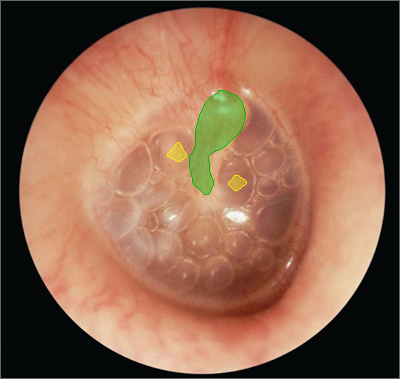
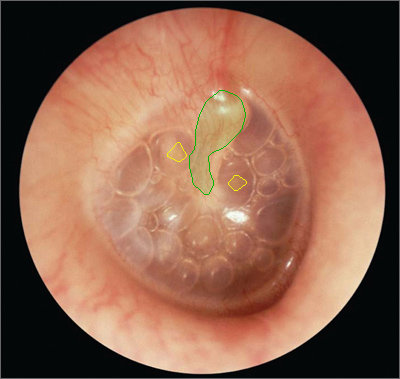
update loss

Changed region(s): [[0.42, 0.2322, 0.63, 0.5224], [0.57, 0.4644, 0.63, 0.5224]]

diff --git a/engine.py b/engine.py
@@ -5,17 +5,20 @@ import numpy as np
 from tqdm import tqdm
 from sklearn.metrics import accuracy_score, f1_score
 from metrics import calculate_iou
-
+from focal_loss import FocalLoss
 
 import torch
 import utils
 
 
-def train_one_epoch(model, lr_scheduler, optimizer, data_loader, device, epoch, alpha, print_freq, scaler=None):
+
+
+def train_one_epoch(model, lr_scheduler, optimizer, data_loader, device, epoch, lamda1, lamda2, print_freq, scaler=None):
     model.train()
     metric_logger = utils.MetricLogger(delimiter="  ")
     metric_logger.add_meter("lr", utils.SmoothedValue(window_size=1, fmt="{value:.6f}"))
     header = f"Epoch: [{epoch}]"
+    seg_criterion = FocalLoss(alpha=[0.0779, 2.4951, 0.9912, 0.4357], gamma=2.0, reduction='mean')
     criterion = torch.nn.CrossEntropyLoss()
     # lr_scheduler = None
     # if epoch == 0:
@@ -38,14 +41,14 @@ def train_one_epoch(model, lr_scheduler, optimizer, data_loader, device, epoch, 
         seg_output, pred_cls, out_put_aux = out_puts['out'], out_puts['cls'], out_puts['aux']
 
         # Tính loss chính
-        loss_seg = criterion(seg_output, targets)
+        loss_seg = seg_criterion(seg_output, targets)
         loss_cls = criterion(pred_cls, cls_labels)
 
         # (Tùy chọn) Nếu bạn muốn dùng thêm Aux Loss để kết quả tốt hơn:
         if "aux" in out_puts:
             aux_loss = criterion(out_put_aux, targets)
         # loss = loss_seg * alpha + (1-alpha) * loss_cls + 0.4 * aux_loss
-        loss = loss_seg  + alpha * loss_cls + 0.3 * aux_loss
+        loss = loss_seg  + lamda1 * loss_cls + lamda2 * aux_loss
         total_loss += loss.item()
         
         loss.backward()
@@ -65,12 +68,14 @@ def train_one_epoch(model, lr_scheduler, optimizer, data_loader, device, epoch, 
 
 
 @torch.inference_mode()
-def evaluate(model, data_loader, alpha,  device):
+def evaluate(model, data_loader, lamda1, lamda2,  device):
     torch.set_num_threads(1)
     model.eval()
     metric_logger = utils.MetricLogger(delimiter="  ")
     header = "Test:"
-    criterion_seg = torch.nn.CrossEntropyLoss()
+    # criterion_seg = torch.nn.CrossEntropyLoss()
+    seg_criterion = FocalLoss(alpha=[0.0779, 2.4951, 0.9912, 0.4357], gamma=2.0, reduction='mean')
+    
     criterion_cls = torch.nn.CrossEntropyLoss()
 
 
@@ -93,14 +98,14 @@ def evaluate(model, data_loader, alpha,  device):
 
 
             # Tính loss chính
-            loss_seg = criterion_seg(seg_output, targets)
+            loss_seg = seg_criterion(seg_output, targets)
             loss_cls = criterion_cls(pred_cls, cls_label)
 
             # (Tùy chọn) Nếu bạn muốn dùng thêm Aux Loss để kết quả tốt hơn:
             if "aux" in out_puts:
-                aux_loss = criterion_seg(aux, targets)
+                aux_loss = seg_criterion(aux, targets)
             # loss = alpha * loss_seg + (1-alpha) * loss_cls + 0.4 * aux_loss
-            loss = loss_seg + alpha * loss_cls + 0.4 * aux_loss
+            loss = loss_seg + lamda1 * loss_cls + lamda2 * aux_loss
             
             total_loss += loss.item()
             total_iou += calculate_iou(seg_output, targets, 4)

diff --git a/finetune.py b/finetune.py
@@ -198,9 +198,9 @@ if __name__ == "__main__":
     num_classes_cls = 5
     # use our dataset and defined transformations
     dataset_train = CustomDataset('/mnt/mmlab2024nas/khanhnq/Dataset/ImageSets/train.txt', get_transform(train=True))
-    dataset_aug = CustomDataset('/mnt/mmlab2024nas/khanhnq/Dataset/data_augment/aug.csv', get_transform(train=True), augment=True)
     # concat train and aug
-    dataset_train = ConcatDataset([dataset_train, dataset_aug])
+    # dataset_aug = CustomDataset('/mnt/mmlab2024nas/khanhnq/Dataset/data_augment/aug.csv', get_transform(train=True), augment=True)
+    # dataset_train = ConcatDataset([dataset_train, dataset_aug])
     dataset_test = CustomDataset('/mnt/mmlab2024nas/khanhnq/Dataset/ImageSets/test.txt', get_transform(train=False))
 
 
@@ -255,8 +255,8 @@ if __name__ == "__main__":
         milestones=[warmup_iters]
     )
 
-    exp_name = 'log11'
-    csv_log_path = f"/home/khanhnq/Experiment/Mask_RCNN/{exp_name}/training_log.csv"
+    exp_name = 'ex1'
+    csv_log_path = f"/home/khanhnq/Experiment/Mask_RCNN/Experimence/{exp_name}/training_log.csv"
     path_save = f"/mnt/mmlab2024nas/khanhnq/check_point_deeplabv3/{exp_name}"
     os.makedirs(path_save, exist_ok=True)
     
@@ -268,14 +268,16 @@ if __name__ == "__main__":
     patience = 0
     early_stop = 10
     best_model  = None
-    alpha = 0.2
+    lamda1 = 0.2
+    lamda2 = 0.3
+    
     for epoch in range(num_epochs):
         # train for one epoch, printing every 10 iterations
-        _, train_loss = train_one_epoch(model, lr_scheduler,  optimizer, data_loader, device, epoch, alpha, print_freq=5)
+        _, train_loss = train_one_epoch(model, lr_scheduler,  optimizer, data_loader, device, epoch, lamda1, lamda2, print_freq=5)
         # update the learning rate
         # lr_scheduler.step()
         # evaluate on the test dataset
-        val_loss, val_iou, accuracy_cls = evaluate(model, data_loader_test, alpha, device=device)
+        val_loss, val_iou, accuracy_cls = evaluate(model, data_loader_test, lamda1, lamda2, device=device)
 
         if val_loss < min_loss:
             min_loss = val_loss

diff --git a/focal_loss.py b/focal_loss.py
@@ -1,0 +1,41 @@
+import torch
+import torch.nn as nn
+import torch.nn.functional as F
+
+class FocalLoss(nn.Module):
+    def __init__(self, alpha=None, gamma=2.0, reduction='mean'):
+        """
+        Args:
+            alpha (Tensor): Trọng số cho từng class [num_classes].
+            gamma (float): Tham số tập trung (mặc định là 2.0).
+            reduction (str): Cách rút gọn loss ('mean', 'sum', hoặc 'none').
+        """
+        super(FocalLoss, self).__init__()
+        self.alpha = alpha
+        self.gamma = gamma
+        self.reduction = reduction
+
+    def forward(self, inputs, targets):
+        # inputs: [Batch, Classes, Height, Width] - Logits từ model
+        # targets: [Batch, Height, Width] - Nhãn chuẩn (0, 1, 2, 3)
+
+        # 1. Tính log_softmax để đảm bảo ổn định (tránh log(0))
+        log_p = F.log_softmax(inputs, dim=1)
+        
+        # 2. Tính Cross Entropy Loss cơ bản (không rút gọn để tính Focal từng pixel)
+        # Nếu truyền alpha vào đây, nll_loss sẽ tự nhân trọng số alpha_t vào từng pixel
+        ce_loss = F.nll_loss(log_p, targets, weight=self.alpha, reduction='none')
+        
+        # 3. Tính p_t (xác suất dự đoán cho đúng class mục tiêu)
+        p_t = torch.exp(-ce_loss)
+        
+        # 4. Tính Focal Loss: FL = (1 - p_t)^gamma * CE
+        # Lưu ý: ce_loss ở đây đã bao gồm alpha_t nếu bạn truyền weight vào nll_loss
+        focal_loss = ((1 - p_t) ** self.gamma) * ce_loss
+        
+        if self.reduction == 'mean':
+            return focal_loss.mean()
+        elif self.reduction == 'sum':
+            return focal_loss.sum()
+        else:
+            return focal_loss

diff --git a/inferent.py b/inferent.py
@@ -37,7 +37,7 @@ def decode_segmap(mask_tensor, palette):
 
     return rgb_img
 
-def draw_polygon_overlay(img_np, mask_np, palette, alpha=0.4):
+def draw_polygon_overlay(img_np, mask_np, palette, alpha=0.1):
     """
     Vẽ overlay dạng Polygon có đường viền lên ảnh gốc.
     """
